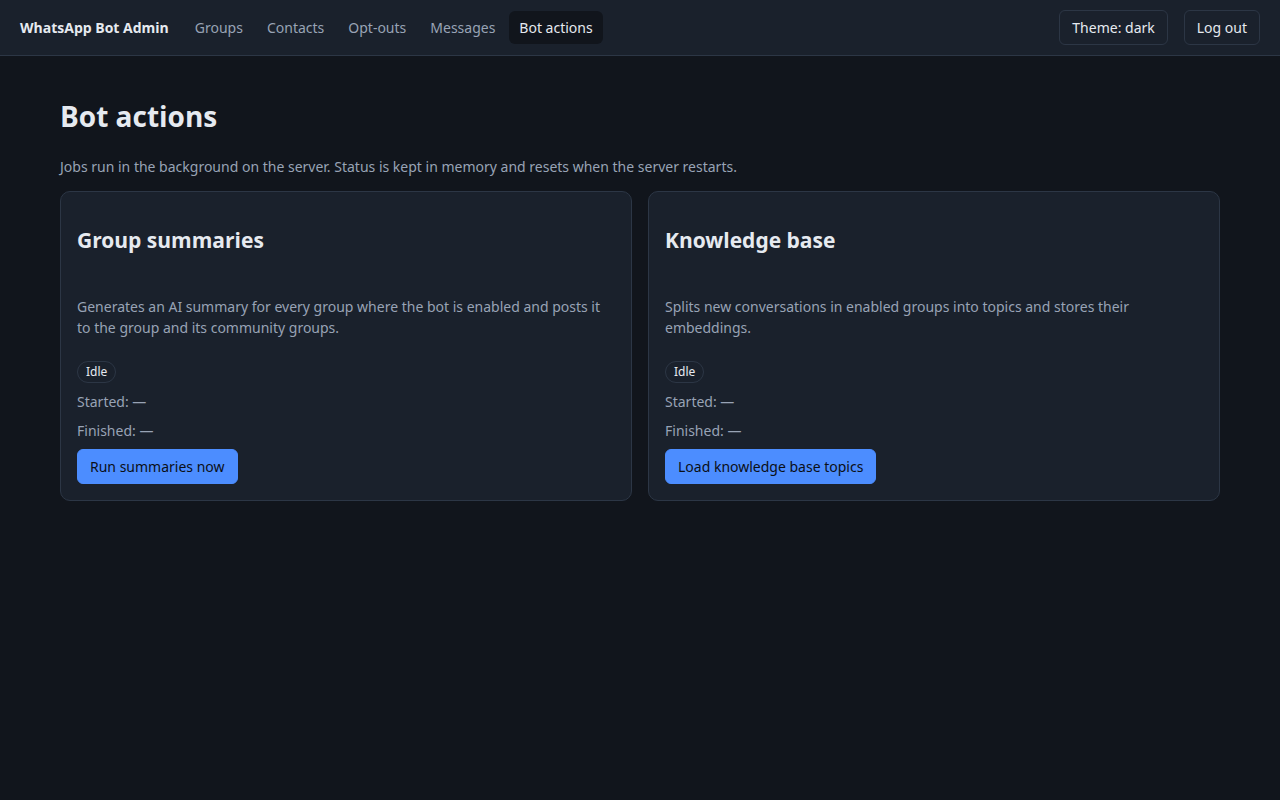
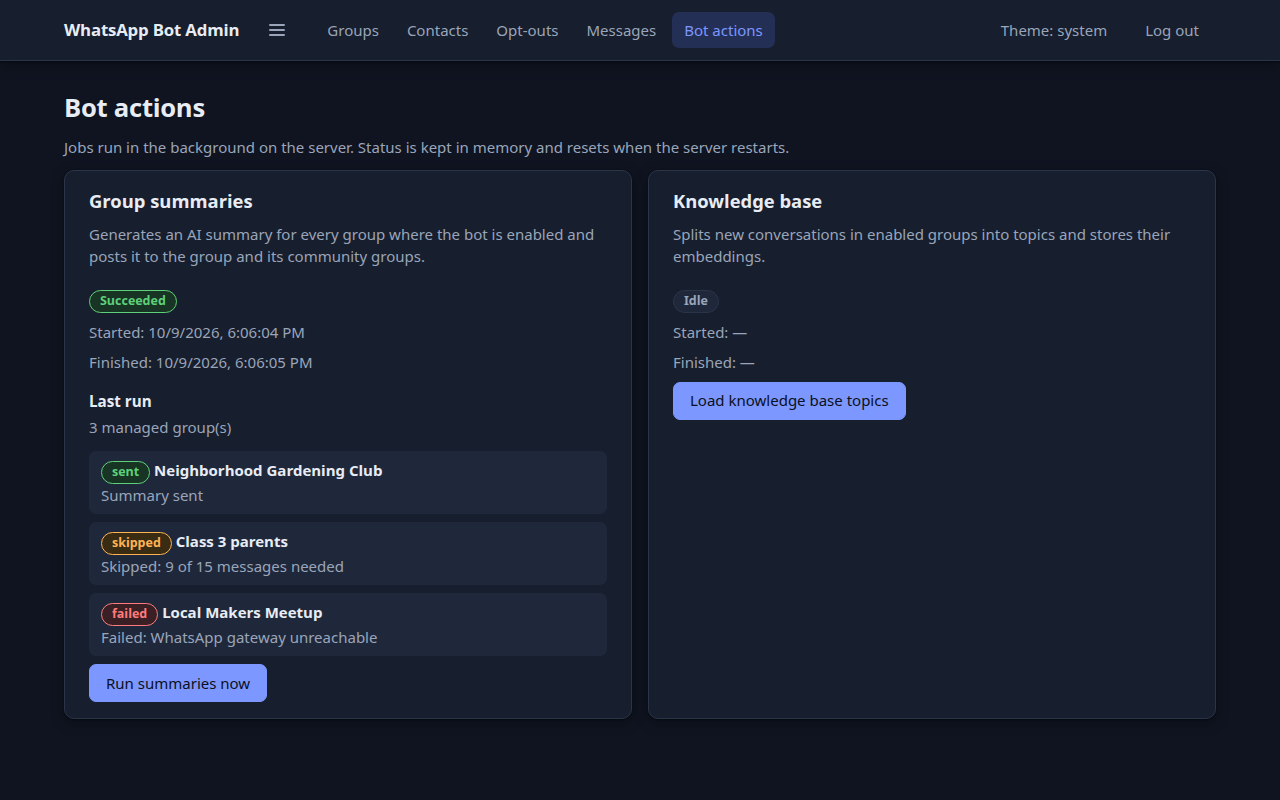
docs: refresh admin UI screenshots and README for the new UI

diff --git a/README.md b/README.md
@@ -155,7 +155,9 @@ A web admin UI (served at `/admin`) lets you manage the bot without touching the
 - **Contacts**: view and edit sender names.
 - **Opt-outs**: view, add and remove opted-out contacts.
 - **Messages**: read-only message browser with search and filters.
-- **Bot actions**: run group summaries or load the knowledge base on demand.
+- **Bot actions**: run group summaries or load the knowledge base on demand. After a summary run, a per-group result list shows which groups were sent, skipped (for example "9 of 15 messages needed") or failed, and why.
+
+The UI is responsive and mobile friendly: on narrow screens the navigation collapses behind a menu button and tables turn into stacked cards. Confirmations, errors and success messages are shown with SweetAlert2 dialogs and toasts, in light or dark theme following your system setting (or the Theme toggle).
 
 #### Enabling it
 
@@ -192,6 +194,11 @@ Editing a group (display name and community keys):
 
 ![Edit group](assets/screenshots/admin-groups-edit-light.png)
 
+Enabling the bot asks for confirmation (SweetAlert2), in light and dark:
+
+![Enable bot confirmation](assets/screenshots/admin-groups-confirm-light.png)
+![Enable bot confirmation (dark)](assets/screenshots/admin-groups-confirm-dark.png)
+
 #### Contacts
 ![Contacts](assets/screenshots/admin-contacts-light.png)
 ![Contacts (dark)](assets/screenshots/admin-contacts-dark.png)
@@ -207,6 +214,20 @@ Editing a group (display name and community keys):
 #### Bot actions
 ![Bot actions](assets/screenshots/admin-actions-light.png)
 ![Bot actions (dark)](assets/screenshots/admin-actions-dark.png)
+
+Summary results per group after a run:
+
+![Summary results](assets/screenshots/admin-actions-results-light.png)
+![Summary results (dark)](assets/screenshots/admin-actions-results-dark.png)
+
+#### Mobile
+<p>
+<img src="assets/screenshots/admin-mobile-groups-light.png" alt="Groups on mobile" width="220">
+<img src="assets/screenshots/admin-mobile-menu-light.png" alt="Mobile navigation menu" width="220">
+<img src="assets/screenshots/admin-mobile-messages-light.png" alt="Messages on mobile" width="220">
+<img src="assets/screenshots/admin-mobile-actions-light.png" alt="Bot actions on mobile" width="220">
+<img src="assets/screenshots/admin-mobile-groups-dark.png" alt="Groups on mobile (dark)" width="220">
+</p>
 
 ### 6. API usage
 
